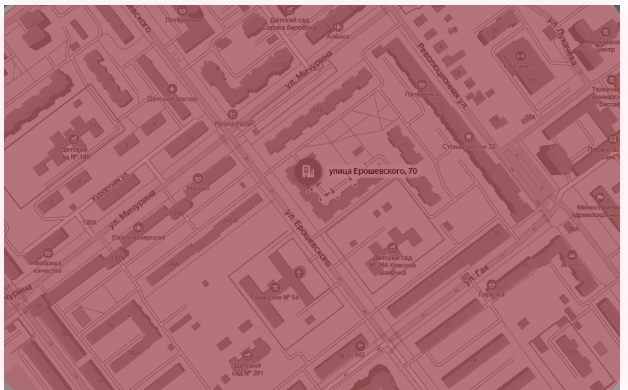
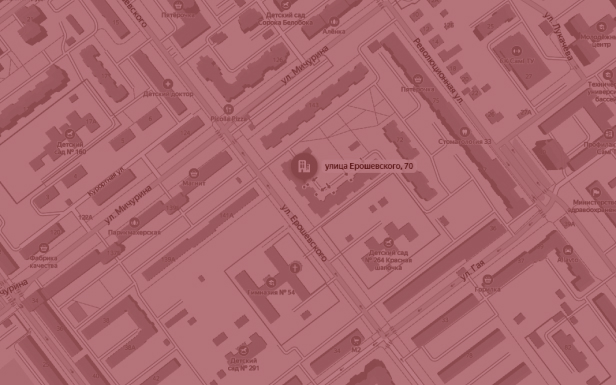
Закончен блок contacts

diff --git a/css/block/contacts.css b/css/block/contacts.css
@@ -1,5 +1,12 @@
 .contacts-info__wrapper {
-    border-bottom: 1px solid #525252;
+    position: relative;
+}
+.contacts-info__wrapper::after {
+    position: absolute;
+    content: "";
+    width: 100%;
+    height: 1px;
+    background-color: #525252;
 }
 .contacts__title {
     margin: 0;
@@ -64,7 +71,7 @@
     border-radius: 3px;
     text-align: center;
     text-transform: uppercase;
-    font-style: 10px;
+    font-size: 10px;
     line-height: 12px;
 }
 .contact-info__messenger-list {
@@ -110,6 +117,8 @@
     margin-bottom: 19px;
 }
 .contacts-map__map img {
+    width: 100%;
+    max-width: 400px;
     filter: drop-shadow(0px 0px 30px rgba(0, 0, 0, 0.5));
     border-radius: 15px;
 }
@@ -123,4 +132,104 @@
 .contacts-map__mode span {
     padding-left: 13px;
     font-weight: 400;
+}
+
+@media (min-width: 600px) {
+    .contacts .container {
+        display: flex;
+        justify-content: space-between;
+    }
+    .contacts-info__wrapper {
+        flex: 50%;
+    }
+    .contacts-info__wrapper::after {
+        width: 1px;
+        height: 270px;
+        top: 45px;
+        right: 0;
+    }
+    .contacts-map__wrapper {
+        flex: 50%;
+        padding-left: 10px;
+        margin-top: 42px;
+    }
+}
+@media (min-width: 768px) {
+    .contacts-info__title,
+    .contacts-map__mode {
+        font-size: 14px;
+        line-height: 18px;
+    }
+    .contacts-map__wrapper {
+        padding-left: 30px;
+    }
+}
+@media (min-width: 846px) {
+    .contacts-map__wrapper {
+        margin-top: 17px;
+    }
+}
+@media (min-width: 1440px) {
+    .contacts__title {
+        padding-bottom: 51px;
+        font-size: 48px;
+        line-height: 56px;
+    }
+    .contacts-info__wrapper {
+        flex: 32%;
+    }
+    .contacts-info__wrapper::after {
+        height: 473px;
+    }
+    .contacts-info__title {
+        padding-bottom: 30px;
+    }
+    .contacts-info__social-list {
+        margin-left: 60px;
+        margin-bottom: 44px;
+    }
+    .contacts-info__social-item + .contacts-info__social-item {
+        margin-top: 29px;
+    }
+    .contacts-info__title,
+    .contacts-info__social-link,
+    .contacts-map__mode {
+        font-size: 24px;
+        line-height: 28px;
+    }
+    .contacts-info__reserve-btn {
+        padding: 14px 56px;
+        font-size: 18px;
+        line-height: 21px;
+    }
+    .contact-info__messenger-item + .contact-info__messenger-item {
+        padding-left: 21px;
+    }
+    .social-phone::after {
+        background-image: url("../../img/social-phone-desk.svg");
+        top: -30px;
+        left: -86px;
+        width: 90px;
+        height: 91px;
+    }
+    .social-mail::after {
+        background-image: url("../../img/social-mail-desk.svg");
+        top: -26px;
+        left: -87px;
+        width: 97px;
+        height: 88px;
+    }
+    .social-location::after {
+        background-image: url("../../img/social-location-desk.svg");
+        top: -35px;
+        left: -84px;
+        width: 93px;
+        height: 100px;
+    }
+    .contacts-map__map {
+        margin-bottom: 51px;
+    }
+    .contacts-map__map img {
+        max-width: 616px;
+    }
 }

diff --git a/index.html b/index.html
@@ -166,8 +166,8 @@
 
     <section class="contacts">
         <div class="container">
-            <h2 class="contacts__title">Контакты</h2>
             <div class="contacts-info__wrapper">
+                <h2 class="contacts__title">Контакты</h2>
                 <p class="contacts-info__title">Контактные данные</p>
                 <ul class="contacts-info__social-list">
                     <li class="contacts-info__social-item">
@@ -205,7 +205,7 @@
             </div>
             <div class="contacts-map__wrapper">
                 <a href="#" class="contacts-map__map">
-                    <img src="img/map-mob.jpg" alt="">
+                    <img src="img/map.jpg" alt="">
                 </a>
                 <p class="contacts-map__mode">Режим работы <span>Пт-Сб 21:00-8:00</span></p>
             </div>
